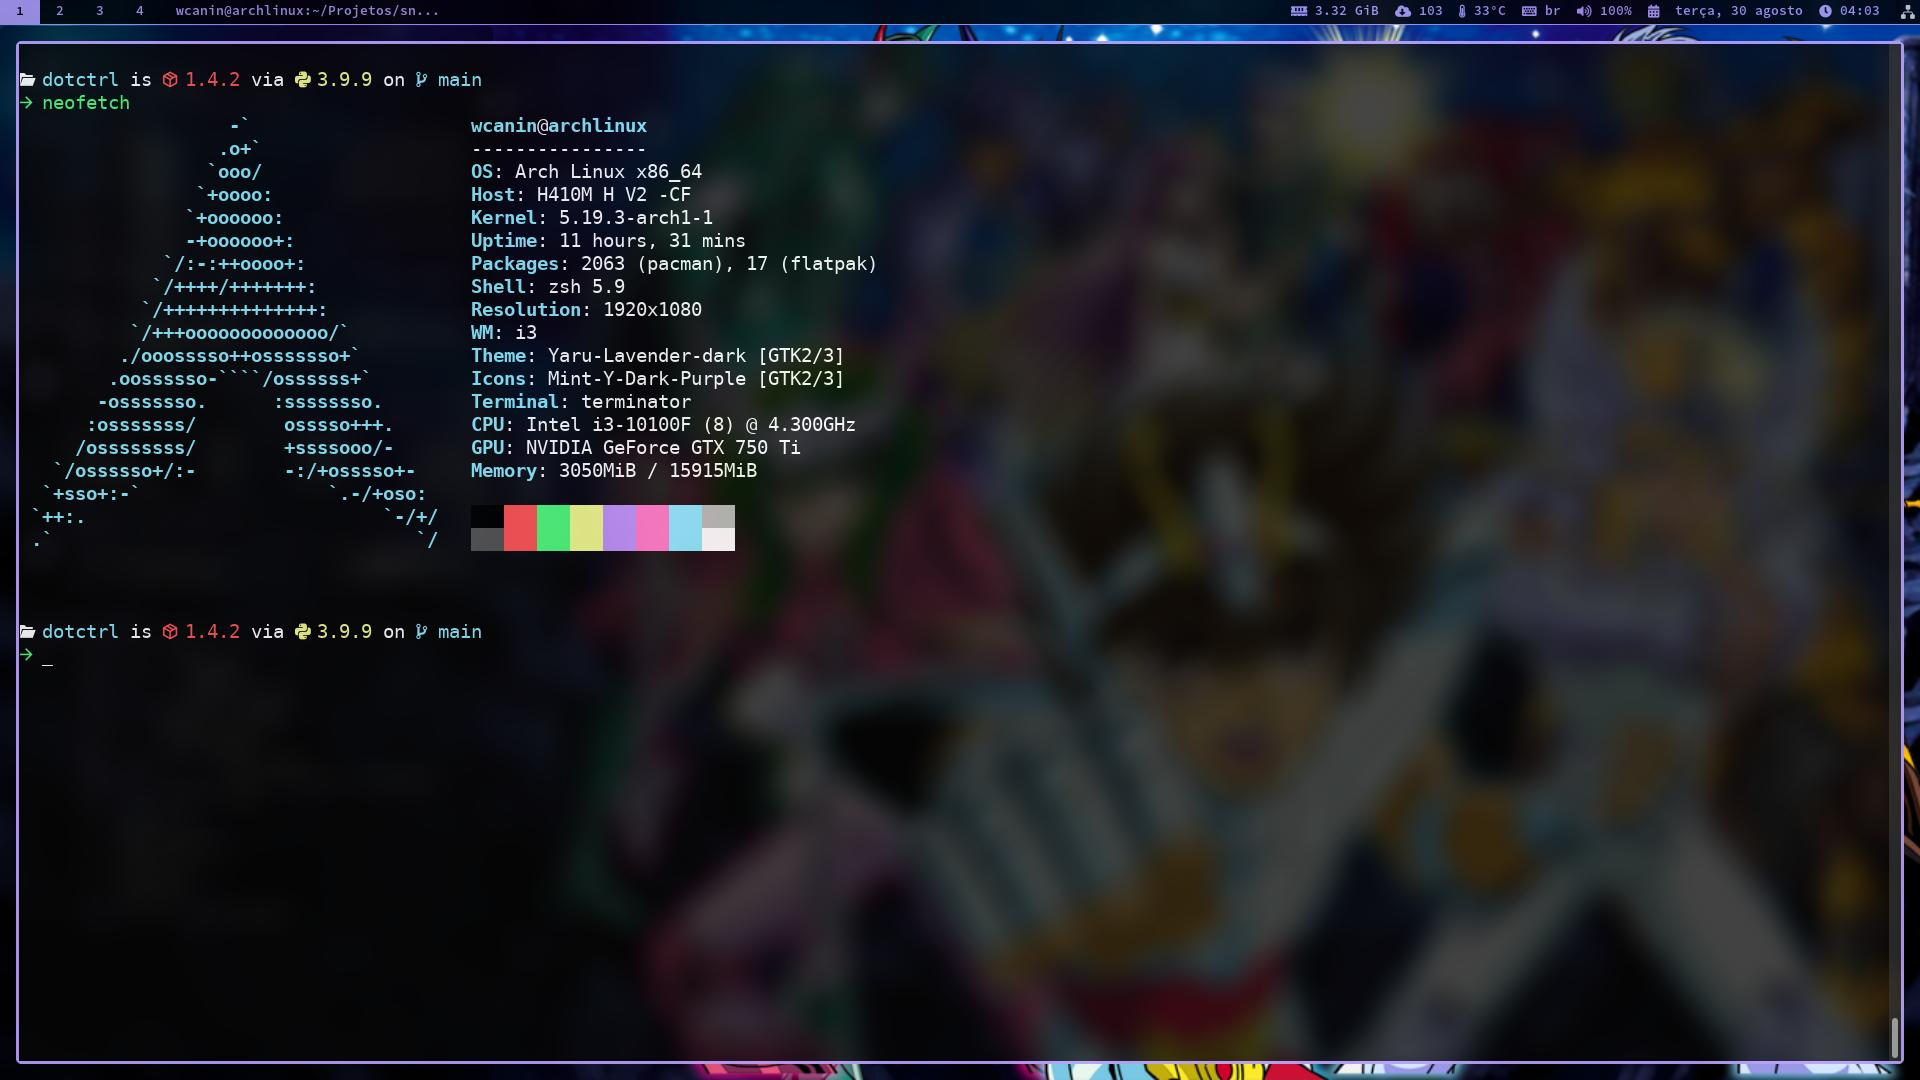
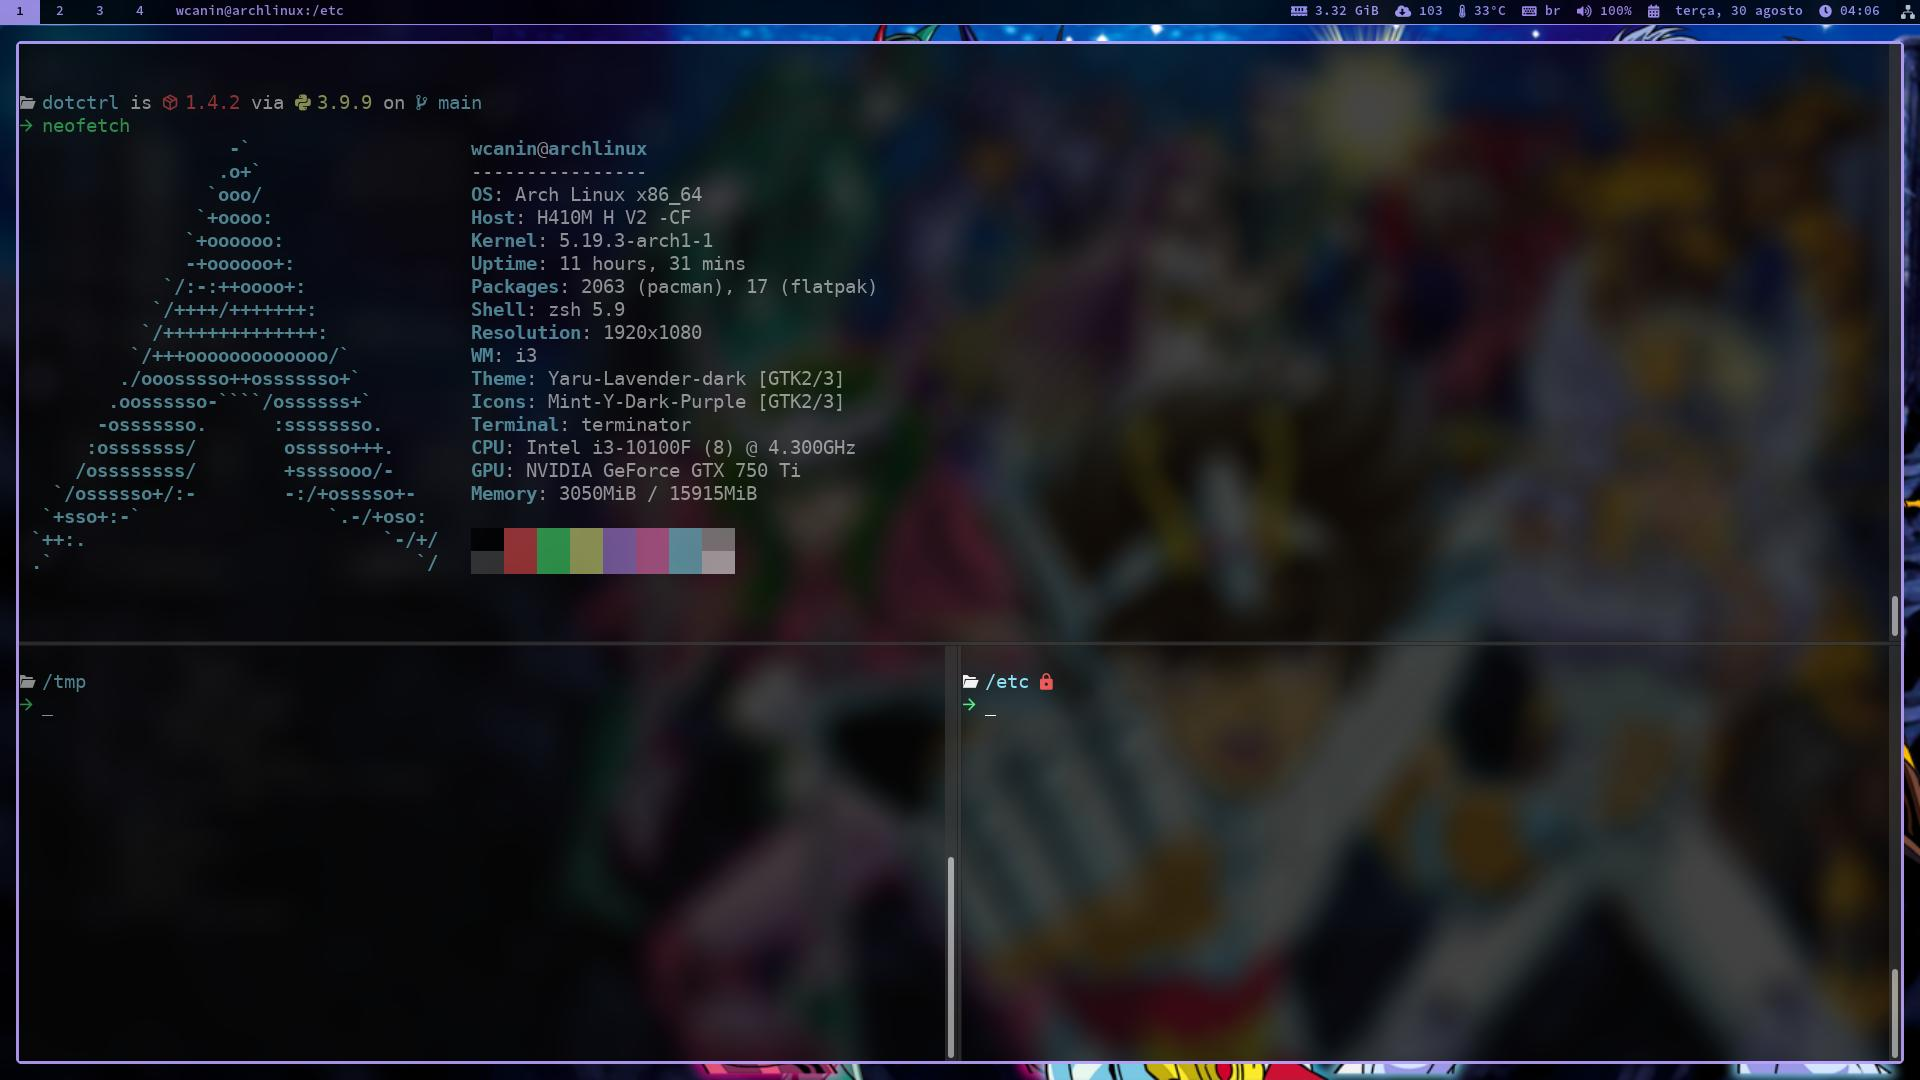
Auto commit - D:30082022-H:040739

diff --git a/README.md b/README.md
@@ -23,9 +23,10 @@ No momento estou usando um "Tiling Window Manager", o **i3** com os seguintes co
 
 ## Terminal
 
-Uso o **Terminator** já faz uns anos, me facilita muito. Junto uso o ZSH com o Starship de tema.
+Uso o **Terminator** já faz uns anos, me facilita muito a função de dividir terminais. Junto com ele, uso o ZSH com o Starship de tema.
 
 ![](https://raw.githubusercontent.com/williamcanin/my_environment/main/screenshot/terminal.jpg)
+
 
 ## Gerenciador de Arquivos
 
